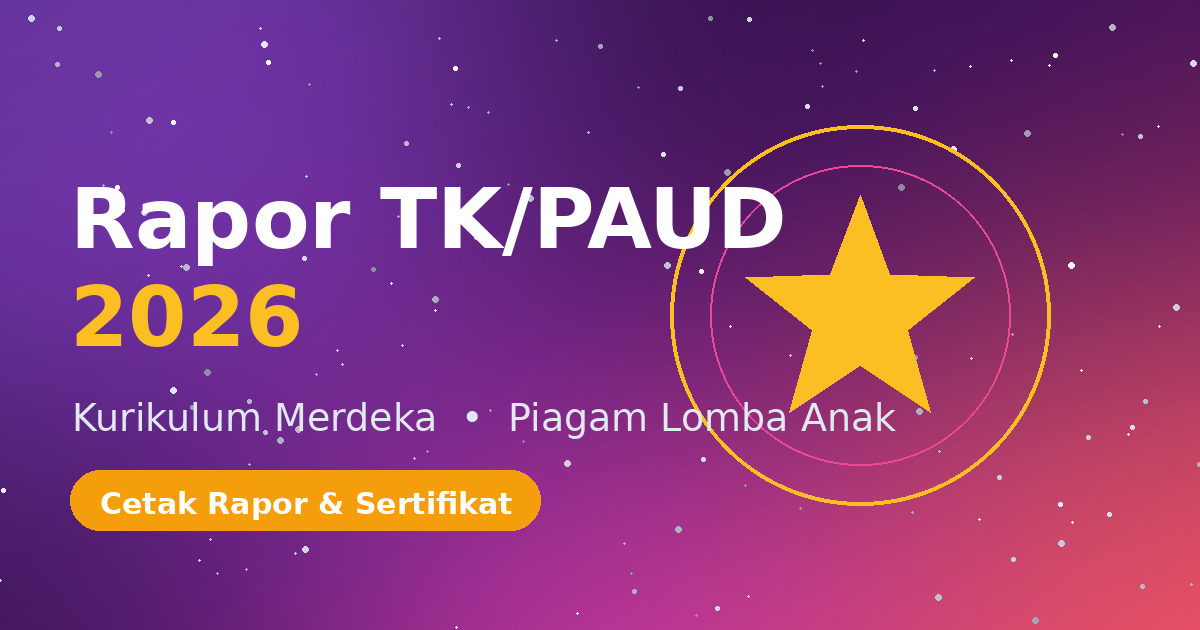
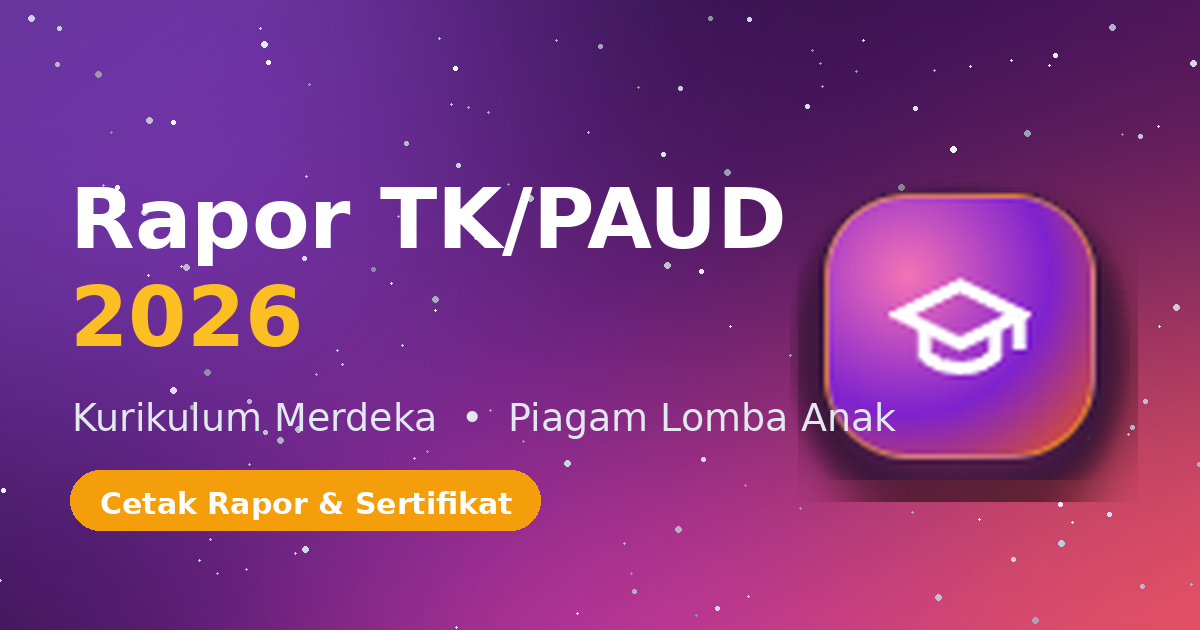
Add files via upload

diff --git a/index.html b/index.html
@@ -6,8 +6,8 @@
 <title>Rapor TK/PAUD 2026 - Kurikulum Merdeka &amp; Piagam Lomba Anak</title>
 <meta name="description" content="Aplikasi rapor, cetak sertifikat, dan piagam lomba anak untuk TK/PAUD dengan format Kurikulum Merdeka.">
 <meta name="theme-color" content="#7e22ce">
-<link rel="icon" type="image/svg+xml" href="favicon.svg">
-<link rel="apple-touch-icon" href="favicon.svg">
+<link rel="icon" type="image/png" sizes="64x64" href="favicon.png">
+<link rel="apple-touch-icon" href="apple-touch-icon.png">
 <meta property="og:type" content="website">
 <meta property="og:title" content="Rapor TK/PAUD 2026 - Kurikulum Merdeka">
 <meta property="og:description" content="Cetak rapor, sertifikat, dan piagam lomba anak TK/PAUD dengan mudah.">

diff --git a/README.md b/README.md
@@ -46,7 +46,11 @@ Kode harus huruf besar. Setelah itu, simpan, lalu commit dan push ulang ke GitHu
 
 ```
 .
-├── index.html   # Seluruh aplikasi (HTML, CSS, dan JavaScript)
+├── index.html    # Seluruh aplikasi (HTML, CSS, dan JavaScript)
+├── favicon.png   # Ikon tab browser
+├── apple-touch-icon.png  # Ikon layar utama HP
+├── logo.png      # Logo asli
+├── og-image.png  # Gambar pratinjau saat tautan dibagikan
 ├── README.md
 └── .gitignore
 ```
